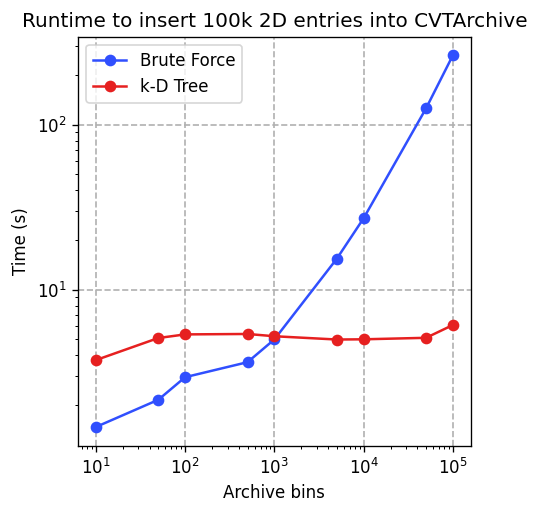
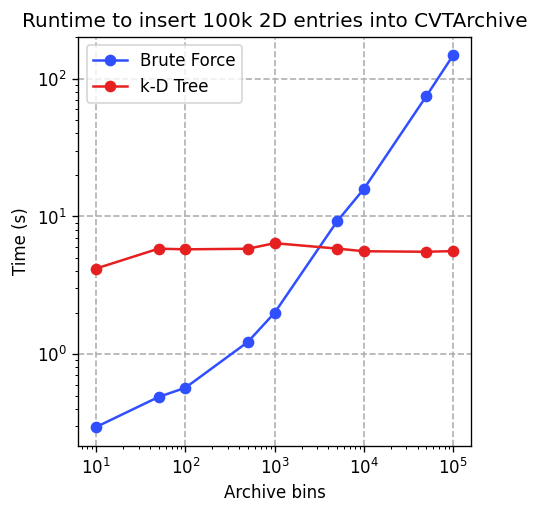
Add numba to CVT Archive

diff --git a/ribs/archives/_cvt_archive.py b/ribs/archives/_cvt_archive.py
@@ -1,6 +1,7 @@
 """Contains the CVTArchive class."""
 import numpy as np
 import pandas as pd
+from numba import jit
 from scipy.cluster.vq import kmeans
 from scipy.spatial import cKDTree  # pylint: disable=no-name-in-module
 
@@ -35,9 +36,9 @@ class CVTArchive(ArchiveBase):
     .. image:: _static/imgs/cvt_add_plot.png
         :alt: Runtime to insert 100k entries into CVTArchive
 
-    As we can see, archives with more than 1k bins seem to have faster insertion
+    As we can see, archives with at least 5k bins seem to have faster insertion
     when using a k-D tree than when using brute force, so **we recommend
-    setting** ``use_kd_tree`` **if you have at least 1k bins in
+    setting** ``use_kd_tree`` **if you have at least 5k bins in
     your** ``CVTArchive``. See `benchmarks/cvt_add.py
     <https://github.com/icaros-usc/pyribs/tree/master/benchmarks/cvt_add.py>`_
     in the project repo for more information about how this plot was generated.
@@ -147,14 +148,23 @@ class CVTArchive(ArchiveBase):
         if self._use_kd_tree:
             self._centroid_kd_tree = cKDTree(self._centroids)
 
+    @staticmethod
+    @jit(nopython=True)
+    def _brute_force_nn_numba(behavior_values, centroids):
+        """Calculates the nearest centroid to the given behavior values.
+
+        Technically, we calculate squared distance, but we only care about
+        finding the neighbor and not the distance itself.
+        """
+        distances = np.expand_dims(behavior_values, axis=0) - centroids
+        distances = np.sum(np.square(distances), axis=1)
+        return np.argmin(distances)
+
     def _get_index(self, behavior_values):
         if self._use_kd_tree:
             return self._centroid_kd_tree.query(behavior_values)[1]
 
-        # Default: calculate nearest neighbor with brute force.
-        distances = np.expand_dims(behavior_values, axis=0) - self._centroids
-        distances = np.sum(np.square(distances), axis=1)
-        return np.argmin(distances)
+        return self._brute_force_nn_numba(behavior_values, self._centroids)
 
     def as_pandas(self):
         """Converts the archive into a Pandas dataframe.

diff --git a/tests/core/archives/cvt_archive_benchmark.py b/tests/core/archives/cvt_archive_benchmark.py
@@ -25,6 +25,10 @@ def benchmark_10k_additions(use_kd_tree, benchmark, benchmark_data_100k):
                              samples=10_000,
                              use_kd_tree=use_kd_tree)
         archive.initialize(solutions.shape[1])
+
+        # Let numba compile.
+        archive.add(solutions[0], objective_values[0], behavior_values[0])
+
         return (archive,), {}
 
     def add_10k(archive):
